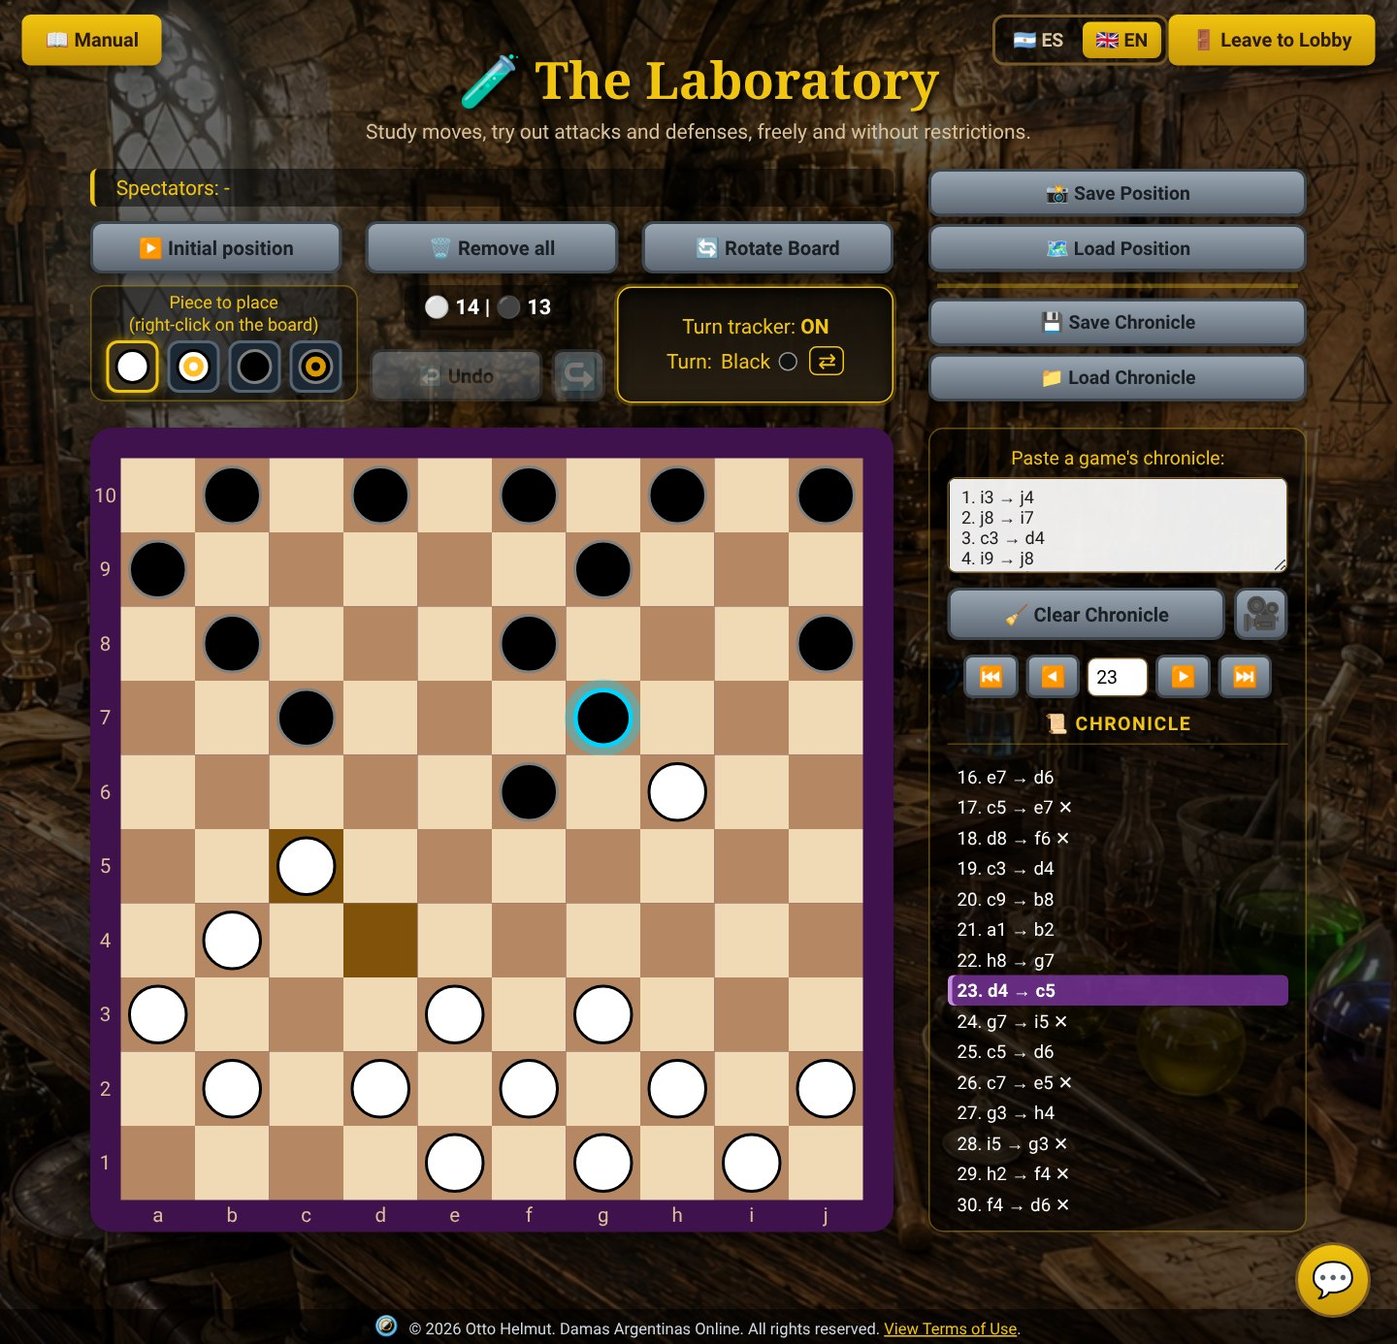
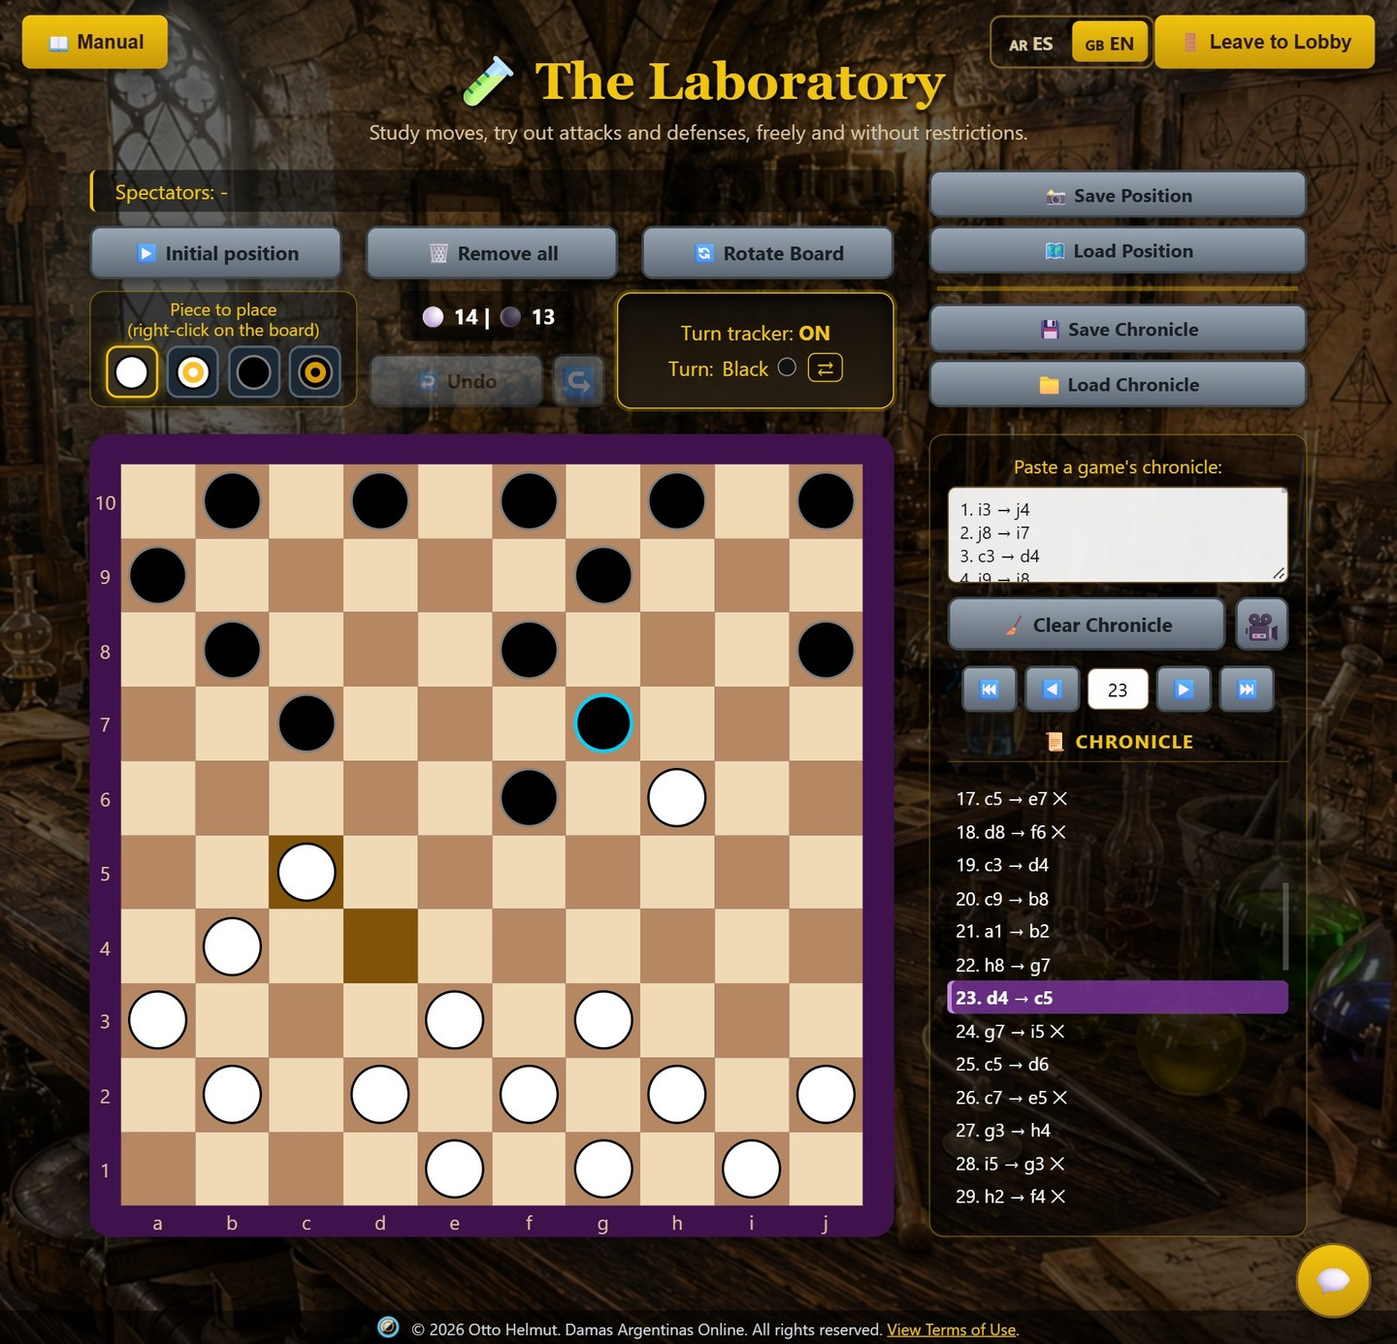
Version al 19 de octubre de 2026

diff --git a/laboratorio.html b/laboratorio.html
@@ -3552,12 +3552,12 @@
                     <section class="lm-sec" data-sec="uses" id="lm-es-uses">
                     <h2 class="lm-h2">¿Para qué sirve?</h2>
                     <ul class="lm-uses">
-                    <li><span class="lm-ic" aria-hidden="true">♟</span><span><a href="#lm-es-board" data-goto="board">Tu tablero, a tu antojo</a>: poné, sacá y mové fichas como en un tablero de verdad.</span></li>
+                    <li><span class="lm-ic" aria-hidden="true">♟</span><span><a href="#lm-es-board" data-goto="board">Tu tablero, a tu antojo</a>: poné, sacá y mové fichas como en un tablero de verdad, siempre con las reglas de las damas argentinas.</span></li>
                     <li><span class="lm-ic" aria-hidden="true">📜</span><span><a href="#lm-es-replay" data-goto="replay">Volvé a ver cualquier partida</a>: las de tus duelos contra humanos y bots, o las que te pasen, jugada por jugada.</span></li>
                     <li><span class="lm-ic" aria-hidden="true">💭</span><span><a href="#lm-es-whatif" data-goto="whatif">Probá el “¿y si…?”</a>: desde cualquier jugada, explorá lo que no se jugó, y volvé a la partida real con un clic.</span></li>
                     <li><span class="lm-ic" aria-hidden="true">🎥</span><span><a href="#lm-es-generate" data-goto="generate">Generá tus propias crónicas</a>: jugá contra vos mismo o contra un chatbot, y queda todo anotado. Hasta podés darle otro final a una partida pasada.</span></li>
-                    <li><span class="lm-ic" aria-hidden="true">💾</span><span><a href="#lm-es-save" data-goto="save">Guardá y compartí</a>: posiciones y crónicas en archivos, para retomarlas otro día o mandárselas a quien quieras.</span></li>
-                    <li><span class="lm-ic" aria-hidden="true">👀</span><span><a href="#lm-es-live" data-goto="live">Mostrá en vivo</a>: desde el Salón de los Caballeros pueden mirar tu tablero mientras estudiás o explicás.</span></li>
+                    <li><span class="lm-ic" aria-hidden="true">💾</span><span><a href="#lm-es-save" data-goto="save">Guardá y compartí</a>: posiciones y crónicas en archivos, para retomarlas otro día, mandárselas a quien quieras o plantearle un problema a un amigo.</span></li>
+                    <li><span class="lm-ic" aria-hidden="true">👀</span><span><a href="#lm-es-live" data-goto="live">Mostrá en vivo</a>: cualquiera del Salón puede mirar tu tablero mientras estudiás o explicás.</span></li>
                     </ul>
                     <p class="lm-also">Y además: <a href="#lm-es-words" data-goto="words">Dos palabras que vas a ver mucho</a> · <a href="#lm-es-signals" data-goto="signals">Las señales del tablero</a> · <a href="#lm-es-map" data-goto="map">Todos los botones de un vistazo</a> · <a href="#lm-es-faq" data-goto="faq">Preguntas frecuentes</a>.</p>
                     <div class="lm-div" aria-hidden="true">◆</div>
@@ -3575,11 +3575,11 @@
                     <div class="lm-signals">
                     <div class="lm-sig"><div class="lm-mini lm-v" data-pos="v" aria-hidden="true"></div><b>Violeta</b>Lo que pasó: una jugada de la crónica, tal cual se jugó.</div>
                     <div class="lm-sig"><div class="lm-mini" data-pos="g" aria-hidden="true"></div><b>Verde</b>Lo que imaginás: posiciones armadas a mano, o jugadas que se apartan de la crónica.</div>
-                    <div class="lm-sig"><div class="lm-mini lm-r" data-pos="r" aria-hidden="true"></div><b>Rojo</b>Lo que se anota: la 🎥 está grabando.</div>
+                    <div class="lm-sig"><div class="lm-mini lm-r" data-pos="r" aria-hidden="true"></div><b>Rojo</b>Lo que se anota: la 🎥 está grabando y cada jugada va a la crónica.</div>
                     </div>
                     <p>La lista de la crónica repite el color: la jugada marcada se ve violeta, verde o roja, igual que el marco. Y sobre el tablero:</p>
                     <div class="lm-cues">
-                    <div class="lm-cue"><div class="lm-sqr h" aria-hidden="true"><div class="lm-pc b"></div></div><b>Huella</b>: la última jugada (la casilla de donde salió la ficha y la de adonde llegó).</div>
+                    <div class="lm-cue"><div class="lm-sqr h" aria-hidden="true"><div class="lm-pc b"></div></div><b>Huella marrón</b>: la última jugada (la casilla de donde salió la ficha y la de adonde llegó).</div>
                     <div class="lm-cue"><div class="lm-sqr" aria-hidden="true"><div class="lm-pc w must"></div></div><b>Brillo celeste</b>: esa ficha tiene que capturar.</div>
                     <div class="lm-cue"><div class="lm-sqr" aria-hidden="true"><div class="lm-pc w sel"></div></div><b>Aro rojo</b>: la ficha seleccionada.</div>
                     <div class="lm-cue"><div class="lm-sqr g" aria-hidden="true"></div><b>Recuadro verde</b>: adónde puede ir la ficha seleccionada.</div>
@@ -3589,9 +3589,9 @@
 
                     <section class="lm-sec" data-sec="board" id="lm-es-board">
                     <h2 class="lm-h2">♟ Tu tablero, a tu antojo</h2>
-                    <p>Acá el tablero es tuyo: armás la posición que quieras y movés los dos colores, siempre con las reglas de las damas argentinas.</p>
+                    <p>Es como tener un tablero de verdad sobre la mesa: armás la posición que quieras y movés los dos colores, siempre con las reglas de las damas argentinas.</p>
                     <ol class="lm-steps">
-                    <li>Empezá con <span class="lm-chip">▶ Posición inicial</span>, o con el tablero vacío: <span class="lm-chip">🗑 Remover todo</span>.</li>
+                    <li>Empezá con <span class="lm-chip">▶ Posición inicial</span> (las 15 fichas de cada lado), o con el tablero vacío: <span class="lm-chip">🗑 Remover todo</span>.</li>
                     <li>Para poner fichas, elegí cuál en <span class="lm-chip lm-pcs" aria-hidden="true"><i class="w on"></i><i class="w k"></i><i class="b"></i><i class="b k"></i></span> <b>Ficha a colocar</b> (peón o dama, blanca o negra) y hacé <b>clic derecho</b> en una casilla oscura. Con clic derecho sobre una ficha, la sacás. En celular, en vez del clic derecho, <b>dejás el dedo apretado</b> sobre la casilla.</li>
                     <li>Para mover, <b>clic izquierdo</b> en la ficha y después en la casilla adonde va. Las capturas obligatorias, las múltiples y la coronación funcionan como en cualquier duelo.</li>
                     </ol>
@@ -3601,7 +3601,7 @@
                     <li><span class="lm-chip lm-dark">Control de turnos: <b>NO</b></span> es como arranca: podés mover cualquier color, en el orden que quieras. Tocalo y pasa a <b>SÍ</b>: se respetan los turnos, y las fichas obligadas a capturar brillan en celeste de entrada. Aun en NO, el Laboratorio lleva la cuenta de a quién le toca.</li>
                     <li><span class="lm-chip lm-swapc">⇄</span> cambia a quién le toca mover; por ejemplo, en una posición que armaste a mano.</li>
                     <li><span class="lm-chip">↩ Deshacer</span> vuelve atrás lo último que hiciste en el tablero (una jugada entera, una ficha que pusiste o sacaste, un cambio de turno), y <span class="lm-chip lm-sq">↪</span> <b>Rehacer</b> lo vuelve a hacer, por si te arrepentiste. En PC, también con <kbd class="lm-kbd">Ctrl+Z</kbd> y <kbd class="lm-kbd">Ctrl+Y</kbd>.</li>
-                    <li><span class="lm-chip">🔄 Rotar Tablero</span> lo da vuelta, para verlo desde el lado de las negras. Es solo una forma de mirar: no cambia nada.</li>
+                    <li><span class="lm-chip">🔄 Rotar Tablero</span> lo da vuelta, para verlo desde el lado de las negras. La posición de las fichas no cambia.</li>
                     <li><span class="lm-chip lm-counter">⚪ 15 | ⚫ 15</span> cuenta las fichas de cada color.</li>
                     </ul>
                     <p class="lm-tip">💡 Lo que cambia todo el tablero de una vez (<span class="lm-chip">▶ Posición inicial</span>, <span class="lm-chip">🗑 Remover todo</span>, cargar una posición o ir a otra jugada de una crónica) no se deshace.</p>
@@ -3610,7 +3610,8 @@
 
                     <section class="lm-sec" data-sec="replay" id="lm-es-replay">
                     <h2 class="lm-h2">📜 Volvé a ver cualquier partida</h2>
-                    <p>Durante o después de un duelo contra un humano o un bot, debajo de la crónica tenés <span class="lm-chip">📋 Copiar Crónica</span> y <span class="lm-chip">💾 Guardar Crónica</span>. Con eso, acá en el Laboratorio:</p>
+                    <p>¿Te ganaron con una jugada que no viste venir? Traela al Laboratorio, mirá cómo se fue armando, y la próxima la usás vos.</p>
+                    <p>Durante o después de un duelo contra un humano o un bot, debajo de la crónica tenés <span class="lm-chip">📋 Copiar Crónica</span> y <span class="lm-chip">💾 Guardar Crónica</span>. Sirve también si estabas mirando la partida de otros. Con eso, acá en el Laboratorio:</p>
                     <ol class="lm-steps">
                     <li>Pegá la crónica en el cuadro <b>Pegá la crónica de una partida</b> y tocá <span class="lm-chip">▶ Reproducir Crónica</span>. Si la tenés en un archivo, <span class="lm-chip">📁 Cargar Crónica</span> la abre y la reproduce de una.</li>
                     <li>El marco se pone violeta, y el tablero arranca en la jugada 0: la posición inicial.</li>
@@ -3675,6 +3676,12 @@
                     </ul>
                     <p>Son los mismos archivos de los duelos contra humanos y bots: van y vienen sin problema, en cualquiera de los dos idiomas.</p>
                     <p>Además, son archivos de texto común: se abren con cualquier editor, y se pueden mandar por mail o por WhatsApp. Se bajan a tu carpeta de descargas, con la fecha y la hora en el nombre (por ejemplo, <i>cronica_2026-10-17_22-52.txt</i>).</p>
+                    <h3 class="lm-h3">Plantear un problema</h3>
+                    <ol class="lm-steps">
+                    <li>Armá la posición (por ejemplo, “blancas en 3 movimientos pasan a estar 8 a 6 arriba”) y elegí el turno con <span class="lm-chip lm-swapc">⇄</span>.</li>
+                    <li><span class="lm-chip">📸 Guardar Posición</span> y mandale el archivo a un amigo.</li>
+                    <li>Tu amigo lo abre con <span class="lm-chip">🗺 Cargar Posición</span>, y a pensar. Si lo resuelve, que te mande la crónica de su solución, grabada con la <span class="lm-chip lm-sq">🎥</span>.</li>
+                    </ol>
                     <div class="lm-div" aria-hidden="true">◆</div>
                     </section>
 
@@ -3708,6 +3715,8 @@
                     <dd>Porque está en la última fila: ahí corona. Un peón blanco en la fila 10, o uno negro en la fila 1, es siempre dama, aunque lo pongas a mano.</dd>
                     <dt>¿Los que miran pueden tocar mi tablero?</dt>
                     <dd>No: solo miran. Ven lo mismo que vos, en vivo, pero no pueden mover ni cambiar nada.</dd>
+                    <dt>¿Sirve para otras damas, como las internacionales?</dt>
+                    <dd>No: el tablero aplica siempre el reglamento de las damas argentinas.</dd>
                     <dt>¿Qué pasa con lo que hice si salgo del Laboratorio?</dt>
                     <dd>Se pierde: el Laboratorio no guarda nada solo. Antes de salir (o de aceptar un desafío), guardá en un archivo la posición o la crónica que te interese.</dd>
                     </dl>
@@ -3725,12 +3734,12 @@
                     <section class="lm-sec" data-sec="uses" id="lm-en-uses">
                     <h2 class="lm-h2">What is it for?</h2>
                     <ul class="lm-uses">
-                    <li><span class="lm-ic" aria-hidden="true">♟</span><span><a href="#lm-en-board" data-goto="board">Your board, as you please</a>: place, remove and move pieces just like on a real board.</span></li>
+                    <li><span class="lm-ic" aria-hidden="true">♟</span><span><a href="#lm-en-board" data-goto="board">Your board, as you please</a>: place, remove and move pieces just like on a real board, always under the rules of Argentine checkers.</span></li>
                     <li><span class="lm-ic" aria-hidden="true">📜</span><span><a href="#lm-en-replay" data-goto="replay">Watch any game again</a>: the ones from your duels against humans and bots, or ones people send you, move by move.</span></li>
                     <li><span class="lm-ic" aria-hidden="true">💭</span><span><a href="#lm-en-whatif" data-goto="whatif">Try the “what if…?”</a>: from any move, explore what wasn't played, and go back to the real game with one click.</span></li>
                     <li><span class="lm-ic" aria-hidden="true">🎥</span><span><a href="#lm-en-generate" data-goto="generate">Generate your own chronicles</a>: play against yourself or against a chatbot, and everything gets written down. You can even give a past game a different ending.</span></li>
-                    <li><span class="lm-ic" aria-hidden="true">💾</span><span><a href="#lm-en-save" data-goto="save">Save and share</a>: positions and chronicles in files, to pick them up another day or send them to anyone you like.</span></li>
-                    <li><span class="lm-ic" aria-hidden="true">👀</span><span><a href="#lm-en-live" data-goto="live">Show it live</a>: from the Knights' Hall, others can watch your board while you study or explain.</span></li>
+                    <li><span class="lm-ic" aria-hidden="true">💾</span><span><a href="#lm-en-save" data-goto="save">Save and share</a>: positions and chronicles in files, to pick them up another day, send them to anyone you like, or set a puzzle for a friend.</span></li>
+                    <li><span class="lm-ic" aria-hidden="true">👀</span><span><a href="#lm-en-live" data-goto="live">Show it live</a>: anyone in the Hall can watch your board while you study or explain.</span></li>
                     </ul>
                     <p class="lm-also">Also: <a href="#lm-en-words" data-goto="words">Two words you'll see a lot</a> · <a href="#lm-en-signals" data-goto="signals">The board's signals</a> · <a href="#lm-en-map" data-goto="map">Every button at a glance</a> · <a href="#lm-en-faq" data-goto="faq">Frequently asked questions</a>.</p>
                     <div class="lm-div" aria-hidden="true">◆</div>
@@ -3748,11 +3757,11 @@
                     <div class="lm-signals">
                     <div class="lm-sig"><div class="lm-mini lm-v" data-pos="v" aria-hidden="true"></div><b>Purple</b>What happened: a move from the chronicle, exactly as it was played.</div>
                     <div class="lm-sig"><div class="lm-mini" data-pos="g" aria-hidden="true"></div><b>Green</b>What you imagine: positions set up by hand, or moves that stray from the chronicle.</div>
-                    <div class="lm-sig"><div class="lm-mini lm-r" data-pos="r" aria-hidden="true"></div><b>Red</b>What gets written down: the 🎥 is recording.</div>
+                    <div class="lm-sig"><div class="lm-mini lm-r" data-pos="r" aria-hidden="true"></div><b>Red</b>What gets written down: the 🎥 is recording, and every move goes into the chronicle.</div>
                     </div>
                     <p>The chronicle's list repeats the color: the marked move shows up purple, green or red, just like the frame. And on the board:</p>
                     <div class="lm-cues">
-                    <div class="lm-cue"><div class="lm-sqr h" aria-hidden="true"><div class="lm-pc b"></div></div><b>Footprint</b>: the last move (the square the piece left and the square it reached).</div>
+                    <div class="lm-cue"><div class="lm-sqr h" aria-hidden="true"><div class="lm-pc b"></div></div><b>Brown footprint</b>: the last move (the square the piece left and the square it reached).</div>
                     <div class="lm-cue"><div class="lm-sqr" aria-hidden="true"><div class="lm-pc w must"></div></div><b>Light-blue glow</b>: that piece has to capture.</div>
                     <div class="lm-cue"><div class="lm-sqr" aria-hidden="true"><div class="lm-pc w sel"></div></div><b>Red ring</b>: the selected piece.</div>
                     <div class="lm-cue"><div class="lm-sqr g" aria-hidden="true"></div><b>Green outline</b>: where the selected piece can go.</div>
@@ -3762,9 +3771,9 @@
 
                     <section class="lm-sec" data-sec="board" id="lm-en-board">
                     <h2 class="lm-h2">♟ Your board, as you please</h2>
-                    <p>Here the board is yours: set up any position you like and move both colors, always under the rules of Argentine checkers.</p>
+                    <p>It's like having a real board on the table: set up any position you like and move both colors, always under the rules of Argentine checkers.</p>
                     <ol class="lm-steps">
-                    <li>Start with <span class="lm-chip">▶ Initial position</span>, or with an empty board: <span class="lm-chip">🗑 Remove all</span>.</li>
+                    <li>Start with <span class="lm-chip">▶ Initial position</span> (the 15 pieces on each side), or with an empty board: <span class="lm-chip">🗑 Remove all</span>.</li>
                     <li>To place pieces, pick one in <span class="lm-chip lm-pcs" aria-hidden="true"><i class="w on"></i><i class="w k"></i><i class="b"></i><i class="b k"></i></span> <b>Piece to place</b> (pawn or king, white or black) and <b>right-click</b> a dark square. Right-clicking a piece removes it. On a phone, instead of right-clicking, <b>press and hold</b> on the square.</li>
                     <li>To move, <b>left-click</b> the piece and then the square it goes to. Mandatory captures, multiple captures and crowning work just like in any duel.</li>
                     </ol>
@@ -3774,7 +3783,7 @@
                     <li><span class="lm-chip lm-dark">Turn tracker: <b>OFF</b></span> is how it starts: you can move any color, in any order. Click it and it switches to <b>ON</b>: turns are enforced, and the pieces that must capture glow light blue right away. Even when it's OFF, the Laboratory keeps track of whose turn it is.</li>
                     <li><span class="lm-chip lm-swapc">⇄</span> switches whose turn it is; for instance, in a position you set up by hand.</li>
                     <li><span class="lm-chip">↩ Undo</span> takes back the last thing you did on the board (a whole move, a piece you placed or removed, a change of turn), and <span class="lm-chip lm-sq">↪</span> <b>Redo</b> does it again, in case you change your mind. On a computer, also with <kbd class="lm-kbd">Ctrl+Z</kbd> and <kbd class="lm-kbd">Ctrl+Y</kbd>.</li>
-                    <li><span class="lm-chip">🔄 Rotate Board</span> turns it around, to see it from Black's side. It's just a way of looking: nothing changes.</li>
+                    <li><span class="lm-chip">🔄 Rotate Board</span> turns it around, to see it from Black's side. The position of the pieces doesn't change.</li>
                     <li><span class="lm-chip lm-counter">⚪ 15 | ⚫ 15</span> counts each color's pieces.</li>
                     </ul>
                     <p class="lm-tip">💡 Anything that changes the whole board at once (<span class="lm-chip">▶ Initial position</span>, <span class="lm-chip">🗑 Remove all</span>, loading a position, or going to another move of a chronicle) can't be undone.</p>
@@ -3783,7 +3792,8 @@
 
                     <section class="lm-sec" data-sec="replay" id="lm-en-replay">
                     <h2 class="lm-h2">📜 Watch any game again</h2>
-                    <p>During or after a duel against a human or a bot, below the chronicle you'll find <span class="lm-chip">📋 Copy Chronicle</span> and <span class="lm-chip">💾 Save Chronicle</span>. With that, here in the Laboratory:</p>
+                    <p>Did someone beat you with a move you didn't see coming? Bring it to the Laboratory, see how it was set up, and next time you'll be the one playing it.</p>
+                    <p>During or after a duel against a human or a bot, below the chronicle you'll find <span class="lm-chip">📋 Copy Chronicle</span> and <span class="lm-chip">💾 Save Chronicle</span>. It also works if you were watching someone else's game. With that, here in the Laboratory:</p>
                     <ol class="lm-steps">
                     <li>Paste the chronicle into the <b>Paste a game's chronicle</b> box and click <span class="lm-chip">▶ Play Chronicle</span>. If you have it in a file, <span class="lm-chip">📁 Load Chronicle</span> opens it and plays it right away.</li>
                     <li>The frame turns purple, and the board starts at move 0: the initial position.</li>
@@ -3848,6 +3858,12 @@
                     </ul>
                     <p>They're the same files as in duels against humans and bots: they go back and forth without any trouble, in either language.</p>
                     <p>They're also plain text files: any editor opens them, and you can send them by email or WhatsApp. They go to your downloads folder, with the date and time in the name (for example, <i>chronicle_2026-10-17_22-52.txt</i>).</p>
+                    <h3 class="lm-h3">Set a puzzle</h3>
+                    <ol class="lm-steps">
+                    <li>Set up the position (for instance, “in 3 moves, White goes 8 to 6 up”) and choose the turn with <span class="lm-chip lm-swapc">⇄</span>.</li>
+                    <li><span class="lm-chip">📸 Save Position</span> and send the file to a friend.</li>
+                    <li>Your friend opens it with <span class="lm-chip">🗺 Load Position</span>, and starts thinking. If they solve it, have them send you the chronicle of their solution, recorded with the <span class="lm-chip lm-sq">🎥</span>.</li>
+                    </ol>
                     <div class="lm-div" aria-hidden="true">◆</div>
                     </section>
 
@@ -3881,6 +3897,8 @@
                     <dd>Because it's on the last row: that's where it crowns. A white pawn on row 10, or a black one on row 1, is always a king, even if you place it by hand.</dd>
                     <dt>Can the people watching touch my board?</dt>
                     <dd>No: they only watch. They see the same as you, live, but they can't move or change anything.</dd>
+                    <dt>Does it work for other kinds of checkers, like international draughts?</dt>
+                    <dd>No: the board always applies the rules of Argentine checkers.</dd>
                     <dt>What happens to my work if I leave the Laboratory?</dt>
                     <dd>It's lost: the Laboratory doesn't save anything on its own. Before leaving (or accepting a challenge), save the position or the chronicle you care about to a file.</dd>
                     </dl>
